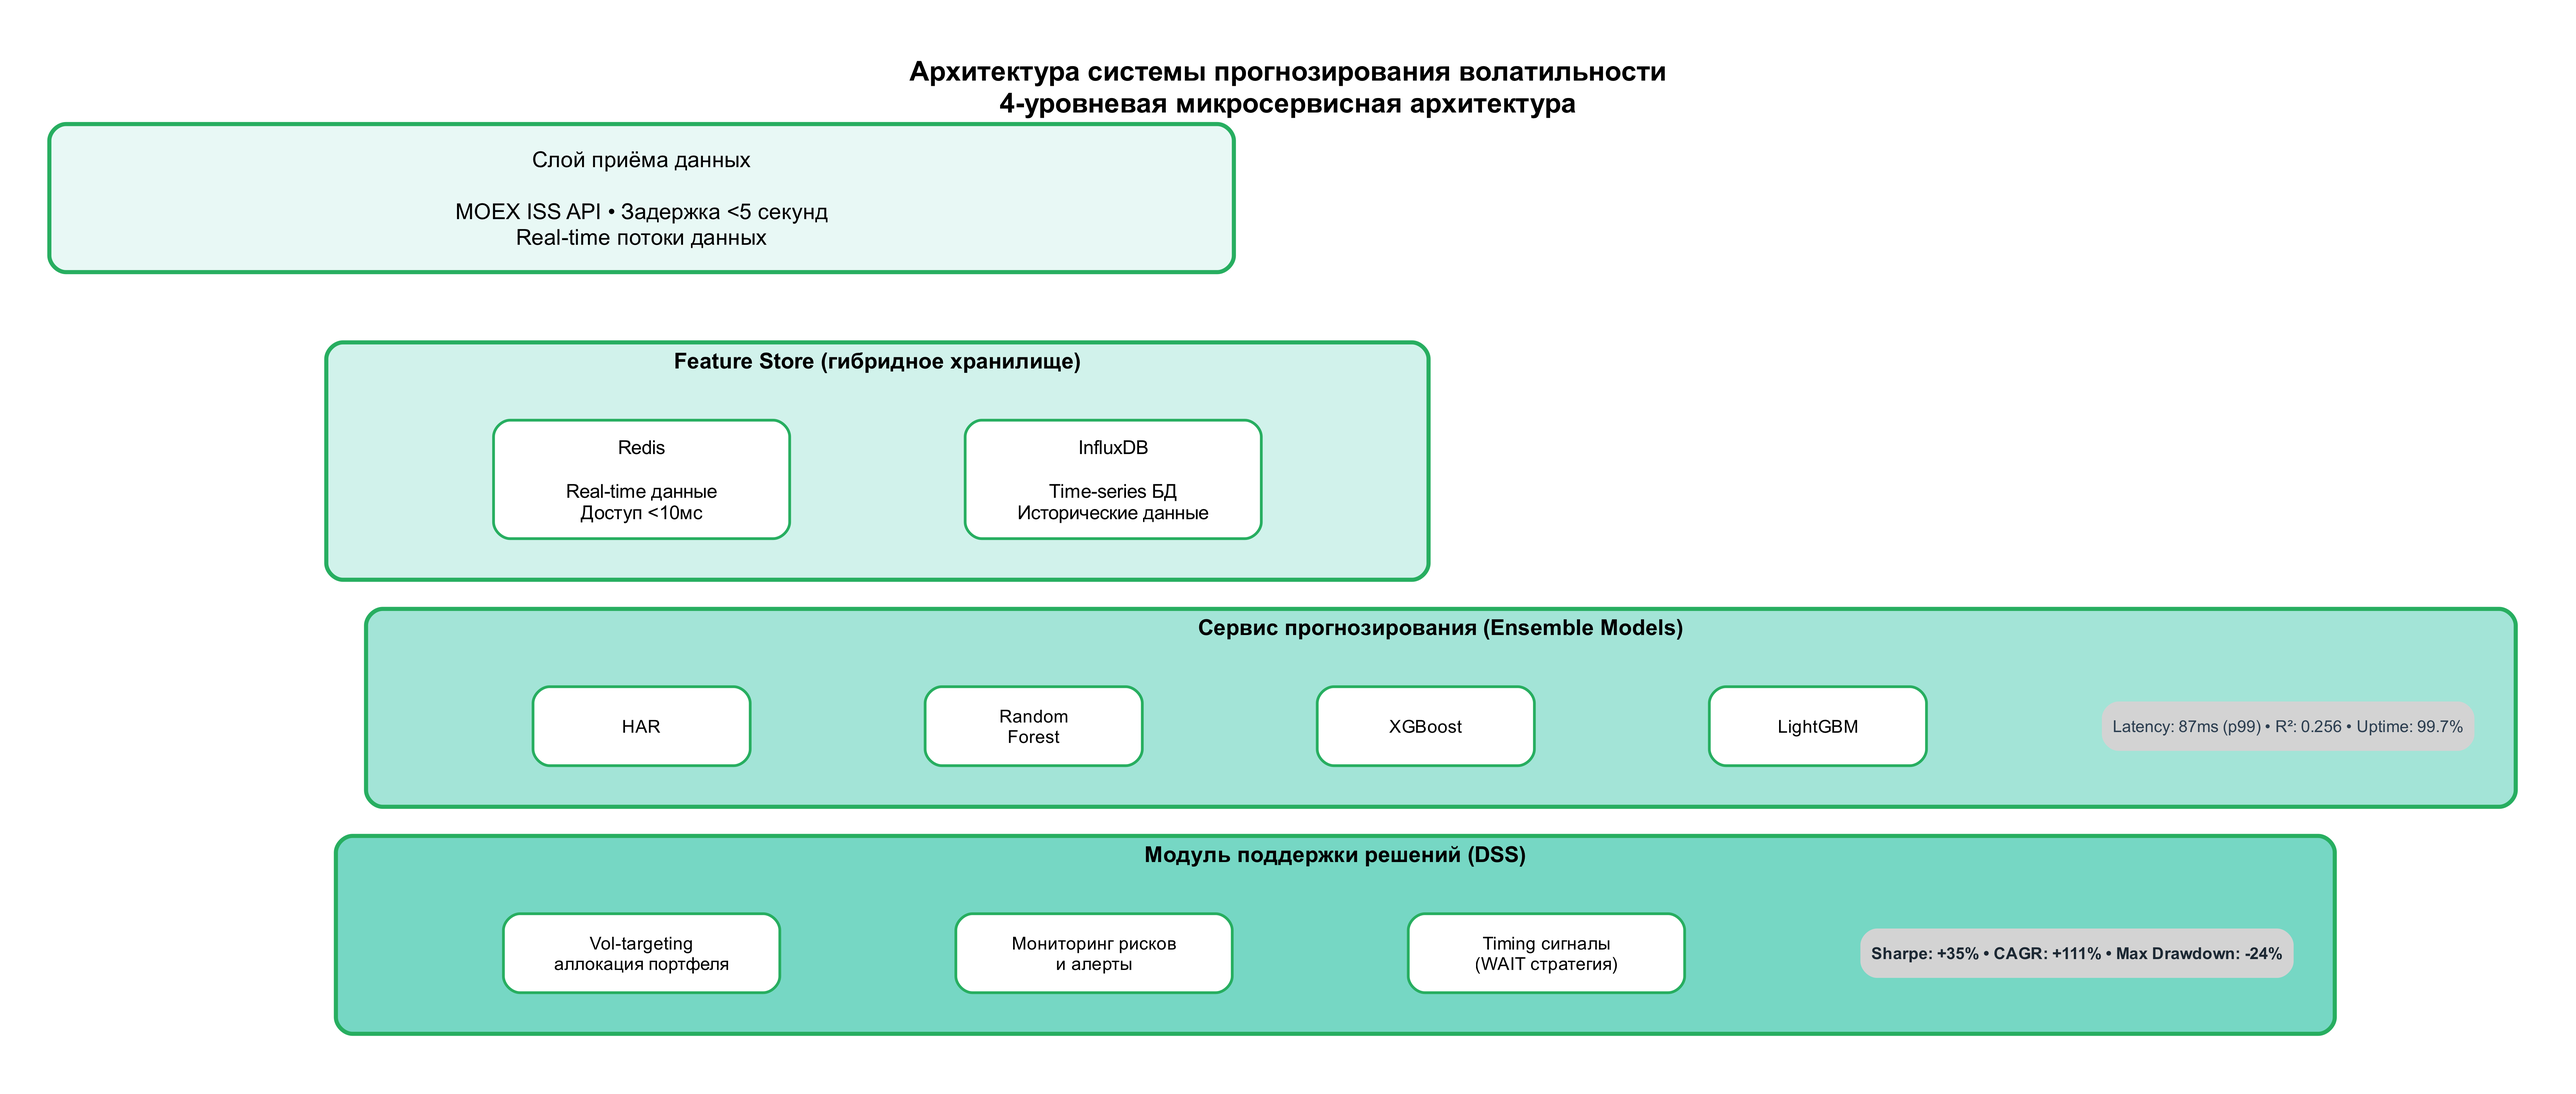
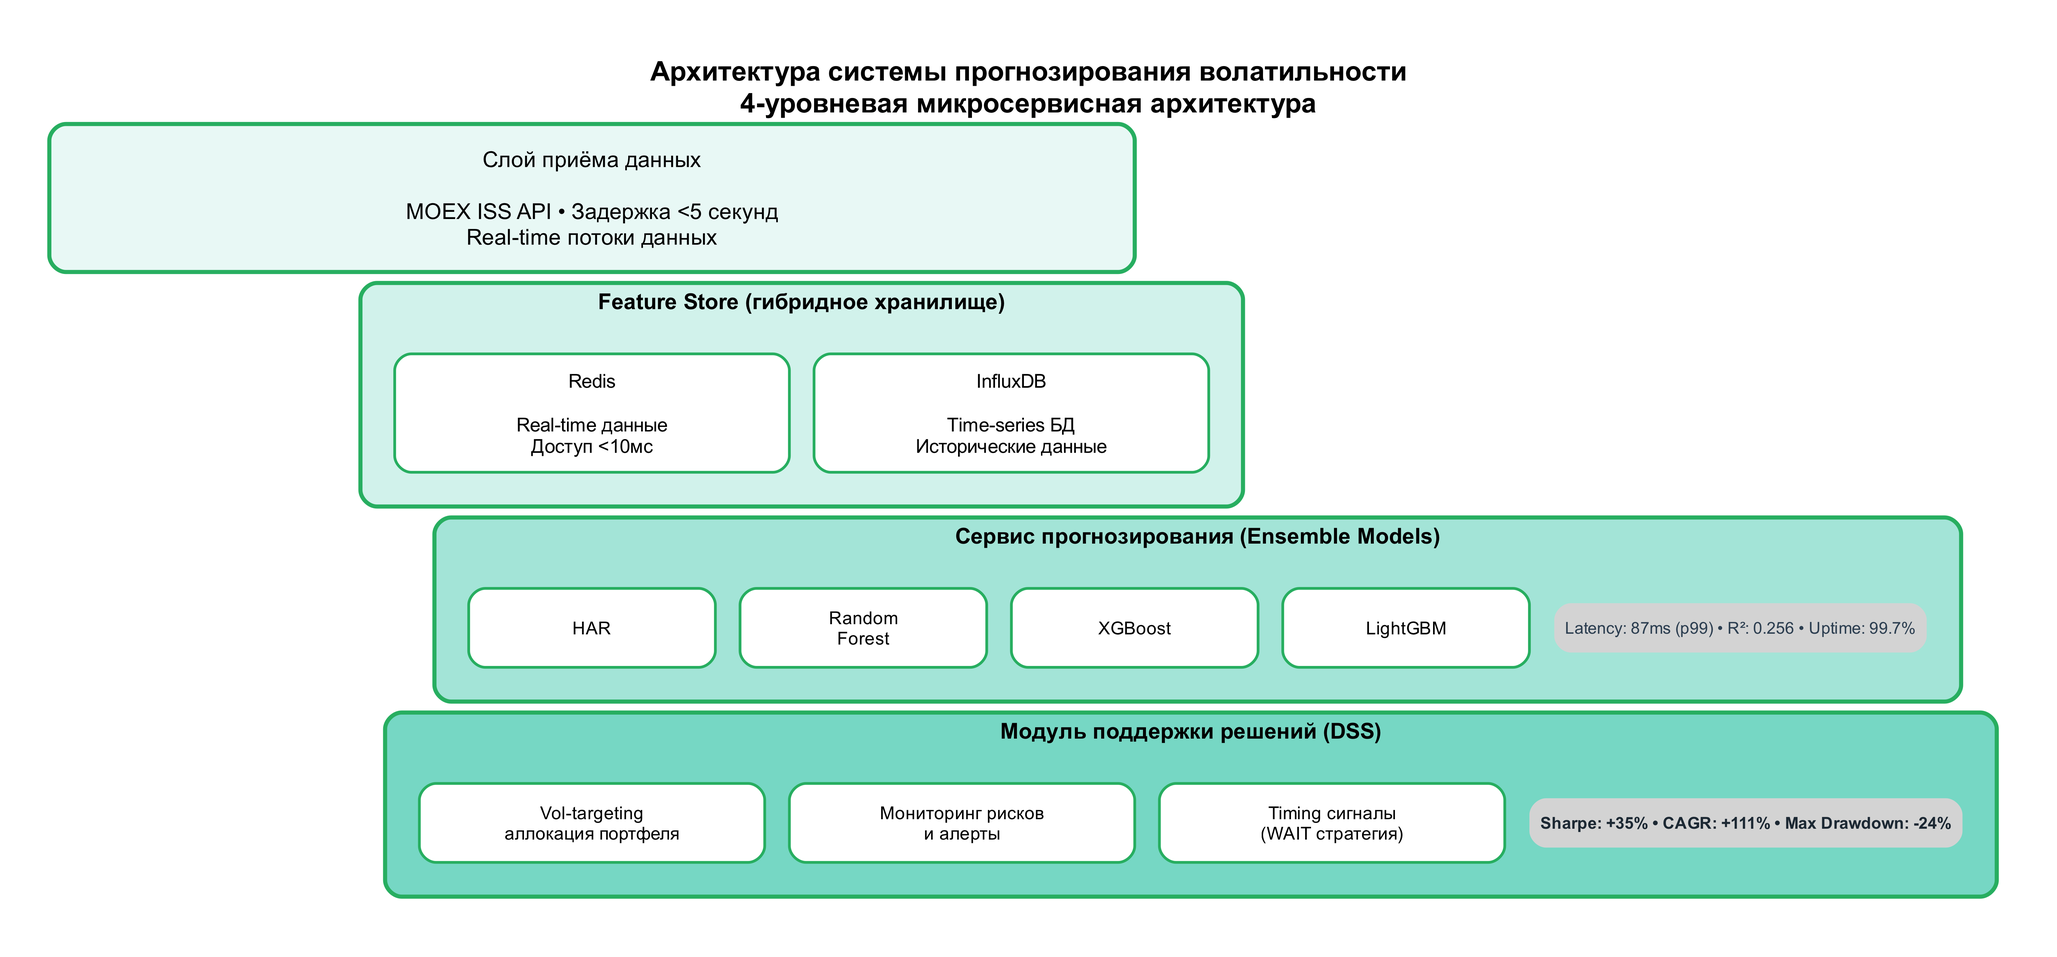
Заменить ASCII-диаграмму на картинку и отцентровать слои
Изменения:
- Убрана ASCII-диаграмма из README, добавлена ссылка на architecture_diagram.png
- Слои (кластеры) архитектуры теперь отцентрованы по вертикали
- Сохранено текстовое описание основных компонентов

Архитектура теперь отображается как изображение вместо текстовой схемы

Changed region(s): [[0.0, 0.0619, 0.9978, 0.9588]]

diff --git a/README.md b/README.md
@@ -37,30 +37,7 @@
 
 **4-уровневая микросервисная архитектура:**
 
-```
-┌─────────────────────────────────────────────────────┐
-│  Слой приёма данных (MOEX ISS API, <5с задержка)   │
-└──────────────────┬──────────────────────────────────┘
-                   │
-┌──────────────────▼──────────────────────────────────┐
-│  Feature Store (Redis + InfluxDB)                   │
-│  • Real-time: Redis (<10мс доступ)                  │
-│  • Long-term: InfluxDB (time-series хранилище)      │
-└──────────────────┬──────────────────────────────────┘
-                   │
-┌──────────────────▼──────────────────────────────────┐
-│  Сервис прогнозирования (Ансамблевые модели)        │
-│  • HAR (базовая эконометрическая модель)            │
-│  • Random Forest, XGBoost, LightGBM                 │
-└──────────────────┬──────────────────────────────────┘
-                   │
-┌──────────────────▼──────────────────────────────────┐
-│  Модуль поддержки решений (DSS)                     │
-│  • Vol-targeting аллокация портфеля                 │
-│  • Мониторинг рисков и алерты                       │
-│  • Timing сигналы (WAIT стратегия)                  │
-└─────────────────────────────────────────────────────┘
-```
+![Архитектура системы](results/figures/architecture_diagram.png)
 
 **Основные компоненты:**
 
